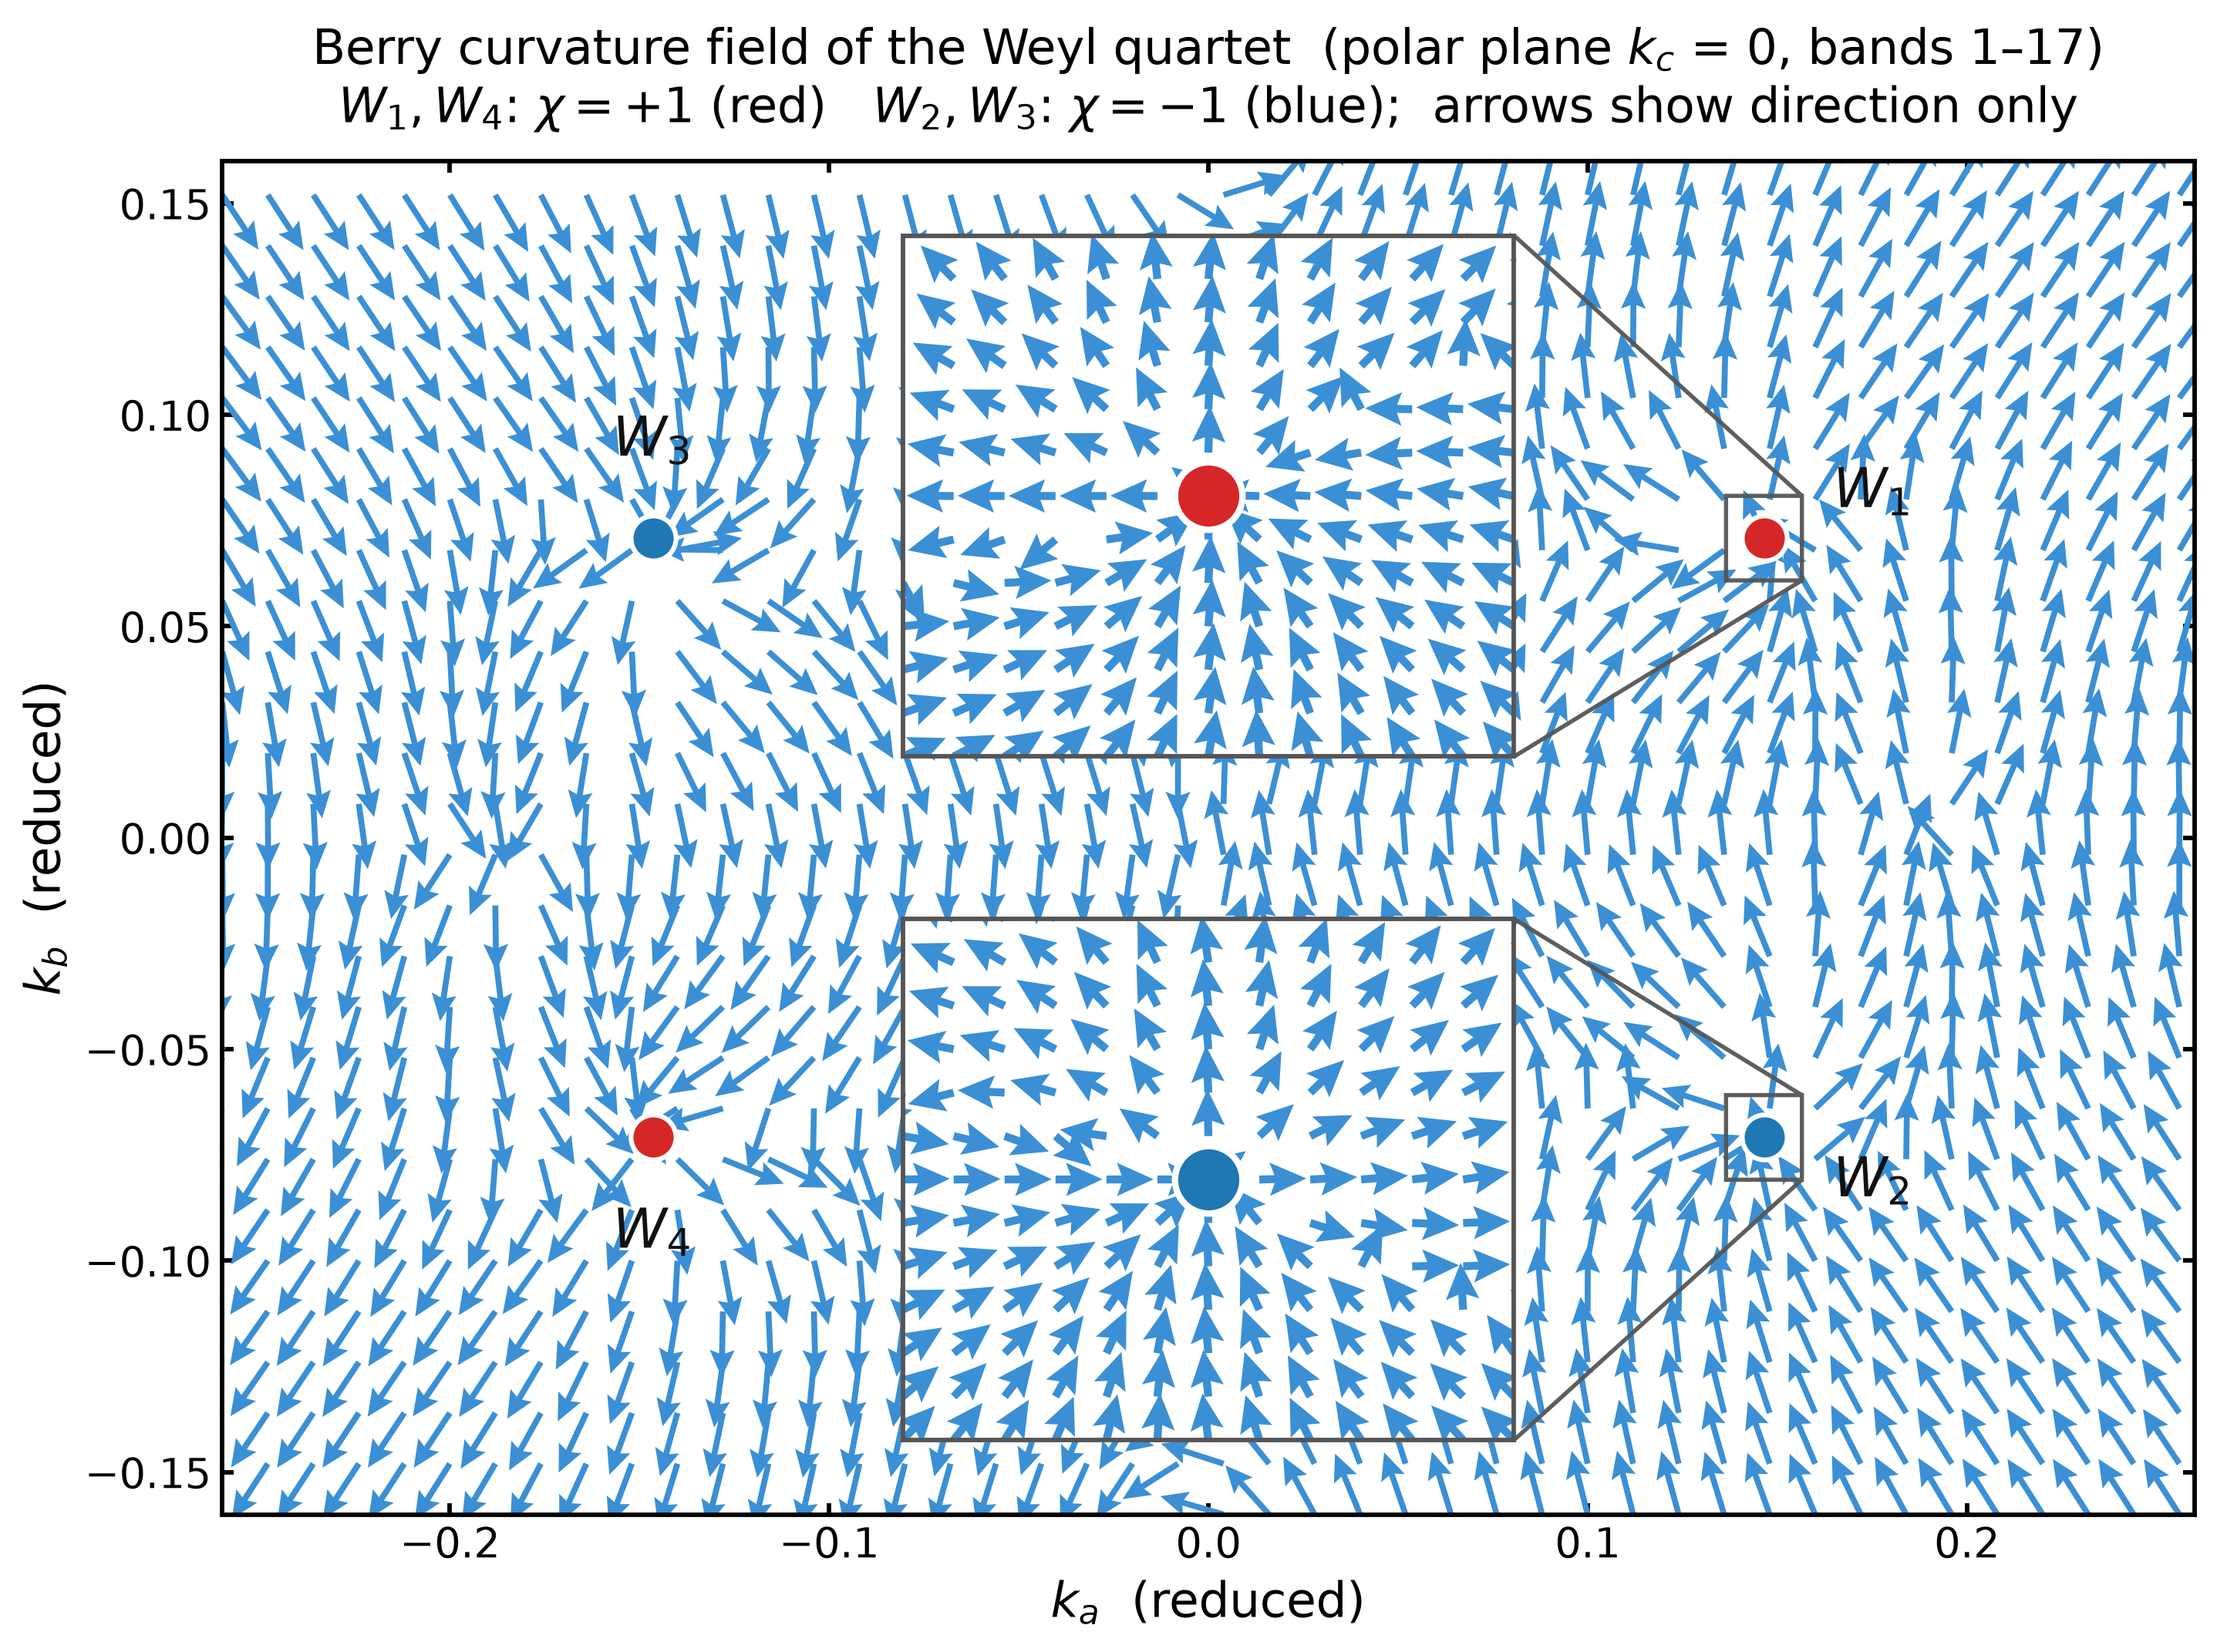
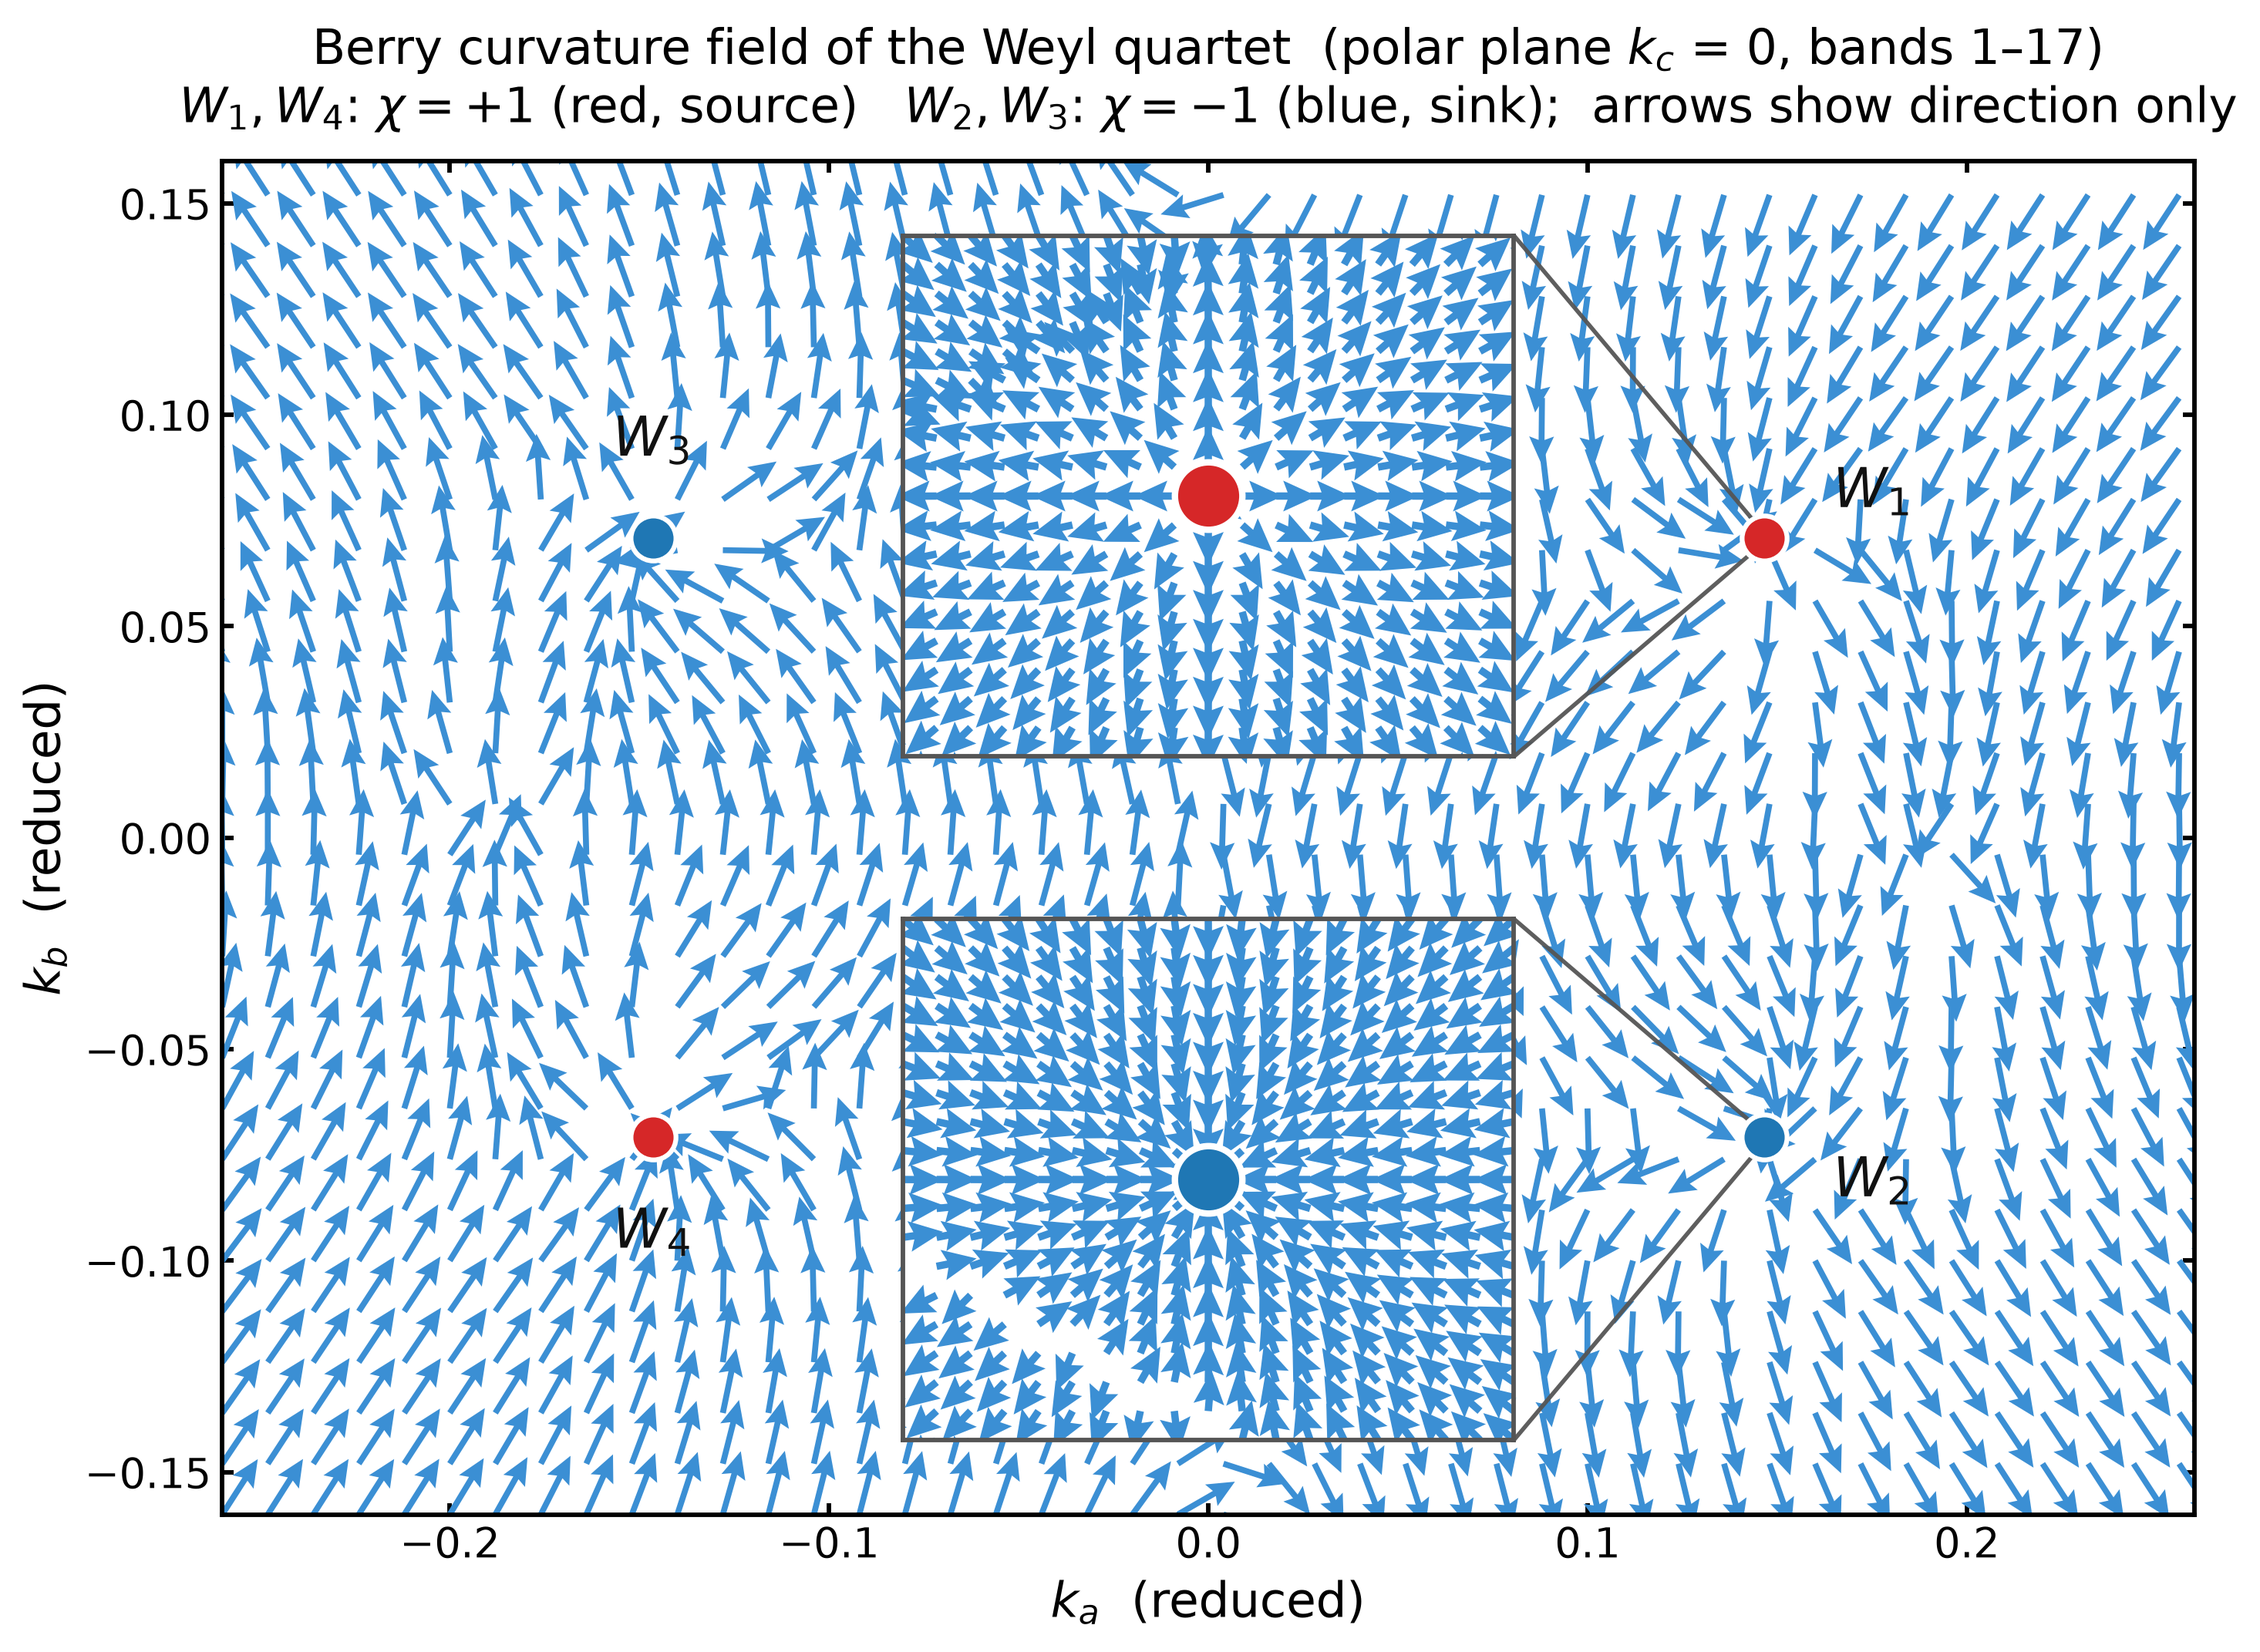
fig9 정정: 인셋 반경을 monopole 영역으로, 부호를 Simphony 에 맞춤
- 확대 반경이 결정적이다.  r=0.010 에서는 매끄러운 배경장에 묻혀 반은 들어오고
  반은 나가는 안장점처럼 보인다 (바깥쪽 비율 0.47).  r<=0.0008 에서 완벽한
  방사형이 되고 |Omega| ~ 1/r^2 로 monopole 스케일링을 따른다.
  인셋 반경을 0.010 -> 0.0006 으로 줄였다.
- 부호 규약이 Simphony 와 전체적으로 반대임을 근거리 측정으로 확인.
  네 노드 <cos> = -1/+1/+1/-1 vs Simphony chi = +1/-1/-1/+1.
  교대 패턴은 완벽히 일치하므로 SIGN=-1 로 전체만 뒤집어 규약을 맞춘다.
- 철회: 'FHS 로 chirality 를 독립 재확인했다'.  box_chern 은 상자 크기에 따라
  부호가 바뀐다 (c 로 길쭉한 상자에서도 L_ab<=0.001 -> -1, >=0.002 -> +1).
  처음에 0.002~0.008 구간만 보고 '안정' 이라고 판단했던 것이 성급했다.
  이 도구로 얻은 절대 부호는 쓰면 안 되고, 신뢰할 수 있는 것은 근거리 장
  방향(= 교대 패턴)뿐이다.  chirality 절대값의 근거는 Simphony 뿐이다.

Claude-Session: https://claude.ai/code/session_01QhAUpBYpemnn6yKhi2Mgwn

diff --git a/scripts/figs/fig9_berry_field.py b/scripts/figs/fig9_berry_field.py
@@ -125,7 +125,7 @@ def field(src, na=131, nb=81, h=3e-4):
 LOCAL = 'figs/berry_local_pp.npz'
 
 
-def local_field(src, nodes, r=0.010, n=25, h=2e-4):
+def local_field(src, nodes, r=0.0006, n=19, h=4e-5):
     """인셋용 — 노드 주변 조밀 격자 (reduced 반경 r)."""
     if os.path.exists(LOCAL):
         z = np.load(LOCAL)
@@ -144,9 +144,21 @@ def local_field(src, nodes, r=0.010, n=25, h=2e-4):
     return np.array(KA), np.array(KB), np.array(OA), np.array(OB)
 
 
+# 부호 규약.  이 FHS 구현의 Ω 부호는 Simphony 의 χ 와 전체적으로 반대다
+# (프로젝트 노트의 "up to a global sign" 그대로).  근거리 측정:
+#   (+a,+b) <cos>=-1.0000  vs Simphony χ=+1
+#   (+a,-b) <cos>=+1.0000  vs Simphony χ=-1
+#   (-a,+b) <cos>=+1.0000  vs Simphony χ=-1
+#   (-a,-b) <cos>=-1.0000  vs Simphony χ=+1
+# 교대 패턴은 완벽히 일치하므로 어느 노드가 source/sink 인지는 이 계산이
+# 독립적으로 확인한다.  전체 부호만 Simphony 에 맞춰 뒤집는다.
+SIGN = -1.0
+
 ka, kb, Oa, Ob = field('source/parent_pristine')
+Oa, Ob = SIGN * Oa, SIGN * Ob
 INS = [NODES[0], NODES[1]]                      # χ=+1 하나, χ=−1 하나
 lka, lkb, lOa, lOb = local_field('source/parent_pristine', INS)
+lOa, lOb = SIGN * lOa, SIGN * lOb
 
 RED, BLU = '#d62728', '#1f77b4'
 ARROW = '#3b8fd4'
@@ -181,10 +193,8 @@ for (a, bb, c), xa, xb, ua, ub, loc in zip(
     axi = ax.inset_axes(loc, zorder=12)
     axi.set_facecolor('white')
     axi.patch.set_alpha(1.0)
-    si = 2                                       # 인셋은 성글게
-    A2, B2 = np.meshgrid(xa[::si], xb[::si], indexing='ij')
-    uquiver(axi, A2, B2, ua[::si, ::si].copy(), ub[::si, ::si].copy(),
-            scale=13, width=0.013)
+    A2, B2 = np.meshgrid(xa, xb, indexing='ij')
+    uquiver(axi, A2, B2, ua.copy(), ub.copy(), scale=15, width=0.012)
     axi.plot(a, bb, 'o', ms=21, color=RED if c > 0 else BLU,
              mec='white', mew=2.0, zorder=6)
     axi.set_xlim(xa[0], xa[-1]); axi.set_ylim(xb[0], xb[-1])
@@ -198,7 +208,8 @@ ax.set_xlabel('$k_a$  (reduced)')
 ax.set_ylabel('$k_b$  (reduced)')
 ax.set_title('Berry curvature field of the Weyl quartet  '
              '(polar plane $k_c$ = 0, bands 1–17)\n'
-             '$W_1,W_4$: $\\chi=+1$ (red)   $W_2,W_3$: $\\chi=-1$ (blue);  '
-             'arrows show direction only', fontsize=15, pad=12)
+             '$W_1,W_4$: $\\chi=+1$ (red, source)   '
+             '$W_2,W_3$: $\\chi=-1$ (blue, sink);  arrows show direction only',
+             fontsize=15, pad=12)
 fig.savefig('figs/fig9_berry_field.png')
 print('fig9 저장.  주 격자 %d x %d,  인셋 %d x %d' % (len(ka), len(kb), lka.shape[1], lkb.shape[1]))
